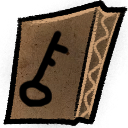
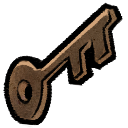
commit

diff --git a/src/game/Level.java b/src/game/Level.java
@@ -22,7 +22,8 @@ public class Level {
 	
 	public StaticObject blocks[];
 	public List<TriggerObject> object_list;
-	
+
+	public RenderQuad bridge_array[];
 	public RenderQuad wall_displacement_array[];
 	public RenderQuad wall_background;
 	public RenderQuad quad_undefined;
@@ -34,6 +35,7 @@ public class Level {
 	public enum ItemType {
 		llave_type,
 		carton_type,
+		alas_type,
 	}
 	
 	public static final int EX = -2;
@@ -127,6 +129,7 @@ public class Level {
 		
 		object_list.add(new TriggerObject(TriggerType.trigger_carton,  get_position_from_index(1.5f, 3.25f), 64.0f, 64.0f, "res/carton.png"));
 		object_list.add(new TriggerObject(TriggerType.trigger_carton,  get_position_from_index(6.5f, 3.25f), 64.0f, 64.0f, "res/carton.png"));
+		object_list.add(new TriggerObject(TriggerType.trigger_carton,  get_position_from_index(12.5f, 8.25f), 64.0f, 64.0f, "res/carton.png"));
 		object_list.add(new TriggerObject(TriggerType.trigger_level,  get_position_from_index(12, 3), 128.0f, 128.0f, "res/mytm.png"));
 		// object_list.add(new TriggerObject(TriggerType.trigger_water, get_position_from_index(10f, 2.65f), 460.0f, 60.0f, "res/fea_mancha_de_agua.png"));
 		// object_list.add(new TriggerObject(TriggerType.trigger_water, get_position_from_index(12f, 2.65f), 460.0f, 60.0f, "res/fea_mancha_de_agua.png"));
@@ -148,32 +151,57 @@ public class Level {
 				WL, BG, BG, BG, BG, BG, BG, BG, BG, BG, BG, BG, BG, BG, WL, 
 				WL, BG, BG, BG, BG, BG, BG, BG, BG, BG, BG, BG, BG, BG, WL, 
 				WL, BG, PL, BG, BG, BG, BG, BG, BG, BG, BG, BG, EX, BG, WL, 
-				WL, WL, WL, WL, WL, WL, BG, BG, WL, WL, WL, WL, WL, WL, WL, 
-				WL, WL, WL, WL, WL, WL, BG, BG, WL, WL, WL, WL, WL, WL, WL, 
-				WL, WL, WL, WL, WL, WL, BG, BG, WL, WL, WL, WL, WL, WL, WL, 
+				WL, WL, WL, WL, WL, WL, BG, BG, BG, WL, WL, WL, WL, WL, WL, 
+				WL, WL, WL, WL, WL, WL, BG, BG, BG, WL, WL, WL, WL, WL, WL, 
+				WL, WL, WL, WL, WL, WL, BG, BG, BG, WL, WL, WL, WL, WL, WL, 
 			//  0   1   2   3   4   5   6   7   8   9   10  11  12  13  14  
 		};
-		
-		// object_list.add(new TriggerObject(TriggerType.trigger_carton,  get_position_from_index(1.5f, 3.25f), 64.0f, 64.0f, "res/carton.png"));
+
+		object_list.add(new TriggerObject(TriggerType.trigger_carton,  get_position_from_index(1.5f, 3.25f), 64.0f, 64.0f, "res/carton.png"));
+		object_list.add(new TriggerObject(TriggerType.trigger_carton,  get_position_from_index(1.5f, 3.75f), 64.0f, 64.0f, "res/carton.png"));
+		// object_list.add(new TriggerObject(TriggerType.trigger_level,  get_position_from_index(6.0f, 2.50f), 128.0f, 128.0f, "res/puente_0.png"));
+		// object_list.add(new TriggerObject(TriggerType.trigger_level,  get_position_from_index(7.0f, 2.50f), 128.0f, 128.0f, "res/puente_1.png"));
+		// object_list.add(new TriggerObject(TriggerType.trigger_level,  get_position_from_index(8.0f, 2.50f), 128.0f, 128.0f, "res/puente_2.png"));
 		// object_list.add(new TriggerObject(TriggerType.trigger_water, get_position_from_index(10f, 2.65f), 460.0f, 60.0f, "res/fea_mancha_de_agua.png"));
 
-		player.item_bag.add(ItemType.llave_type);
+		// player.item_bag.add(ItemType.llave_type);
 		this.current_level = 2;
 		load_layout(map_layout, 15, 10);
 	}
 
 	public void input(Window window, Input input, float delta_time) {
+		/*
+		if(window.is_key_typed(GLFW_KEY_1) && !player.item_bag.isEmpty()) {
+			ItemType new_type = player.item_bag.get(0).equals(ItemType.carton_type) ? ItemType.llave_type : ItemType.carton_type;
+			player.item_bag.set(0, new_type);
+		}
+		*/
+
+		if(window.is_key_typed(GLFW_KEY_1) && !player.item_bag.isEmpty()) {
+			for(int i = 0; i < player.item_bag.size(); i++) {
+				ItemType it = player.item_bag.get(i);
+				
+				if(it.equals(ItemType.carton_type)) {
+					player.item_bag.set(i, ItemType.llave_type);
+				}
+			}
+		}
+
+		if(window.is_key_typed(GLFW_KEY_2) && !player.item_bag.isEmpty() 
+				&& player.item_bag.get(0).equals(ItemType.carton_type)
+				&& player.item_bag.get(1).equals(ItemType.carton_type)) {
+			player.item_bag.clear();
+			
+			player.item_bag.add(ItemType.alas_type);
+		}
+		
 		switch(current_level) {
 			case 1: {
-				if(window.is_key_press(GLFW_KEY_R)) load_level_1();
-			
-				if(window.is_key_typed(GLFW_KEY_1) && !player.item_bag.isEmpty()) {
-					ItemType new_type = player.item_bag.get(0).equals(ItemType.carton_type) ? ItemType.llave_type : ItemType.carton_type;
-					player.item_bag.set(0, new_type);
-				}
+				if(window.is_key_typed(GLFW_KEY_R)) load_level_1();
+
 			} break;
 			case 2: {
-				if(window.is_key_press(GLFW_KEY_R)) load_level_2();
+				if(window.is_key_typed(GLFW_KEY_R)) load_level_2();
 			} break;
 		}
 		
@@ -220,10 +248,12 @@ public class Level {
 			case llave_type:
 				icon = llave_sprite;
 				break;
-			
+			case alas_type:
+				icon = llave_sprite;
+				break;
 			}
 			
-			vec3 position 	  = new vec3((slot * (icon.rect.w * 0.45f)) + window.width * -0.5f, window.height * -0.5f, 0);
+			vec3 position 	  = new vec3((slot * (icon.rect.w * 1.0f)) + window.width * -0.5f, window.height * -0.5f, 0);
 			mat4 model_matrix = new mat4(1.0f);
 			
 			model_matrix.multiply(mat4.translate_matrix(position));
@@ -264,8 +294,11 @@ public class Level {
 	public void handle_level_end() {
 		switch(current_level) {
 			case 1: {
-				if(!player.item_bag.isEmpty() && player.item_bag.get(0).equals(ItemType.llave_type)) {
-					load_level_2();
+				for(int i = 0; i < player.item_bag.size(); i++) {
+					ItemType it = player.item_bag.get(i);
+					if(it.equals(ItemType.llave_type)) {
+						load_level_2();
+					}
 				}
 			} break;
 			case 2: {

diff --git a/src/game/Player.java b/src/game/Player.java
@@ -23,6 +23,8 @@ public class Player extends Entity {
 	public Texture facing_right_array[];
 	public Texture walking_left_array[];
 	public Texture walking_right_array[];
+	public Texture falling_left_array[];
+	public Texture falling_right_array[];
 
 	public Sound step_brick_sound_array[];
 	public Sound step_water_sound_array[];
@@ -30,7 +32,8 @@ public class Player extends Entity {
 	
 	public List<ItemType> item_bag;
 	public boolean imagine_active;
-	
+
+	public boolean flying = false;
 	public boolean on_ground = true;
 	public float time 		 = 0;
 	public int JumpsLeft	 = 1;
@@ -51,6 +54,10 @@ public class Player extends Entity {
 	public void input(Window window, float delta_time) {
 		motion = new vec3(0, 0, 0);
 		
+		if(!item_bag.isEmpty() && item_bag.get(0).equals(ItemType.alas_type)) {
+			flying = window.is_key_press(GLFW_KEY_SPACE);
+		}
+		
 		if(window.is_key_press(GLFW_KEY_A)) {
 			motion.x -= player_speed * delta_time;
 			
@@ -63,20 +70,32 @@ public class Player extends Entity {
 			facing_direction   = 1;
 			quad.texture_array = walking_right_array;
 		} 
-
-		imagine_active = window.is_key_press(GLFW_KEY_SPACE);
 		
-		if(motion.x == 0) {
-			quad.frame_count   = 16;
-			quad.target_fps    = 10;
-			quad.texture_array = (facing_direction == -1) ? facing_left_array : facing_right_array;
+		if(flying) {
+			motion.y += player_speed * delta_time;
+		}
+		
+		if(on_ground) {
+			if(motion.x == 0) {
+				quad.frame_count   = 16;
+				quad.target_fps    = 10;
+				quad.texture_array = (facing_direction == -1) ? facing_left_array : facing_right_array;
+			} else {
+				quad.frame_count   = 8;
+				if(quad.current_frame >= quad.frame_count) {
+					quad.current_frame = 0;
+				}
+				
+				quad.target_fps    = 14;
+				quad.texture_array = (facing_direction == -1) ? walking_left_array : walking_right_array;
+			}
 		} else {
-			quad.frame_count   = 8;
+			quad.frame_count = 3;
 			if(quad.current_frame >= quad.frame_count) {
 				quad.current_frame = 0;
 			}
-			quad.target_fps    = 14;
-			quad.texture_array = (facing_direction == -1) ? walking_left_array : walking_right_array;
+
+			quad.texture_array = (facing_direction == -1) ? falling_left_array : falling_right_array;
 		}
 		
 		/*
@@ -101,8 +120,8 @@ public class Player extends Entity {
 
 	public void Character_Fall(Window window, float delta_time) {
 		if(time <= 0) {
-			if(on_ground == false) {
-				motion.y -= 400 * delta_time;
+			if(on_ground == false && flying == false) {
+				motion.y -= 600 * delta_time;
 			}
 		}
 	}
@@ -194,6 +213,16 @@ public class Player extends Entity {
 
 			walking_right_array[i] = new Texture();
 			walking_right_array[i].load_texture_file("res/walk_right/move-der-" + (i + 1) + ".png");
+		}
+
+		falling_left_array  = new Texture[3];
+		falling_right_array = new Texture[3];
+		for(int i = 0; i < 3; i++) {
+			falling_left_array[i] = new Texture();
+			falling_left_array[i].load_texture_file("res/fall/fall-izq-" + (i + 1) + ".png");
+
+			falling_right_array[i] = new Texture();
+			falling_right_array[i].load_texture_file("res/fall/fall-der-" + (i + 1) + ".png");
 		}
 		
 		quad.texture_array = facing_left_array;
